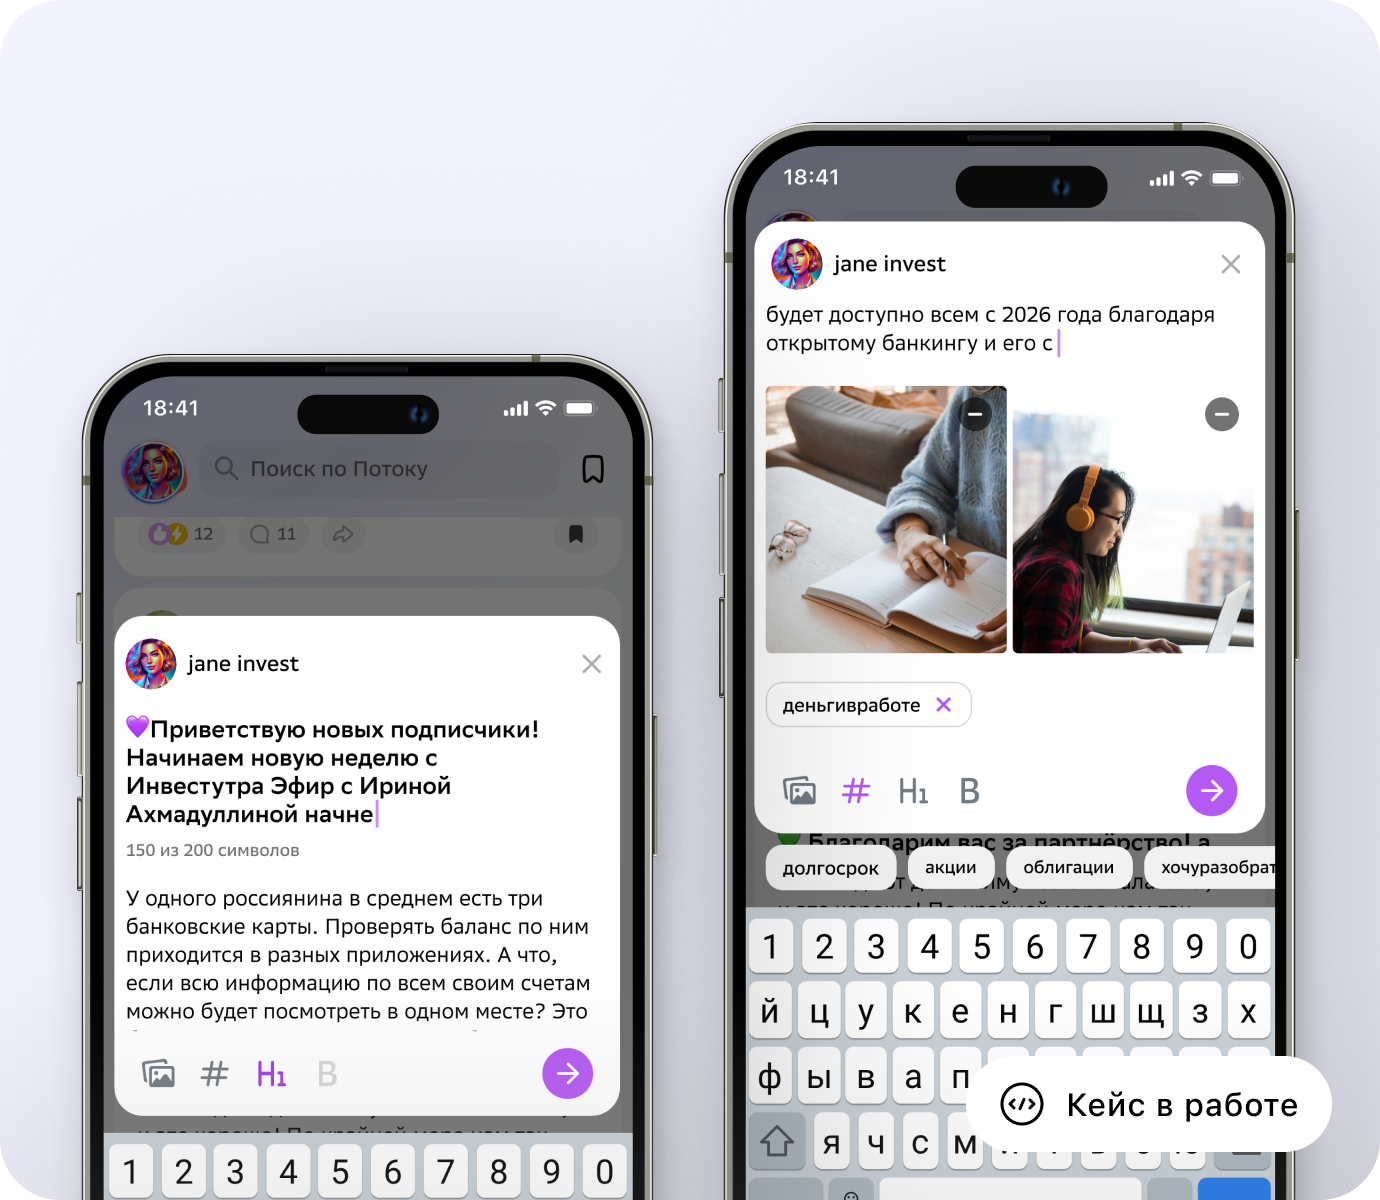
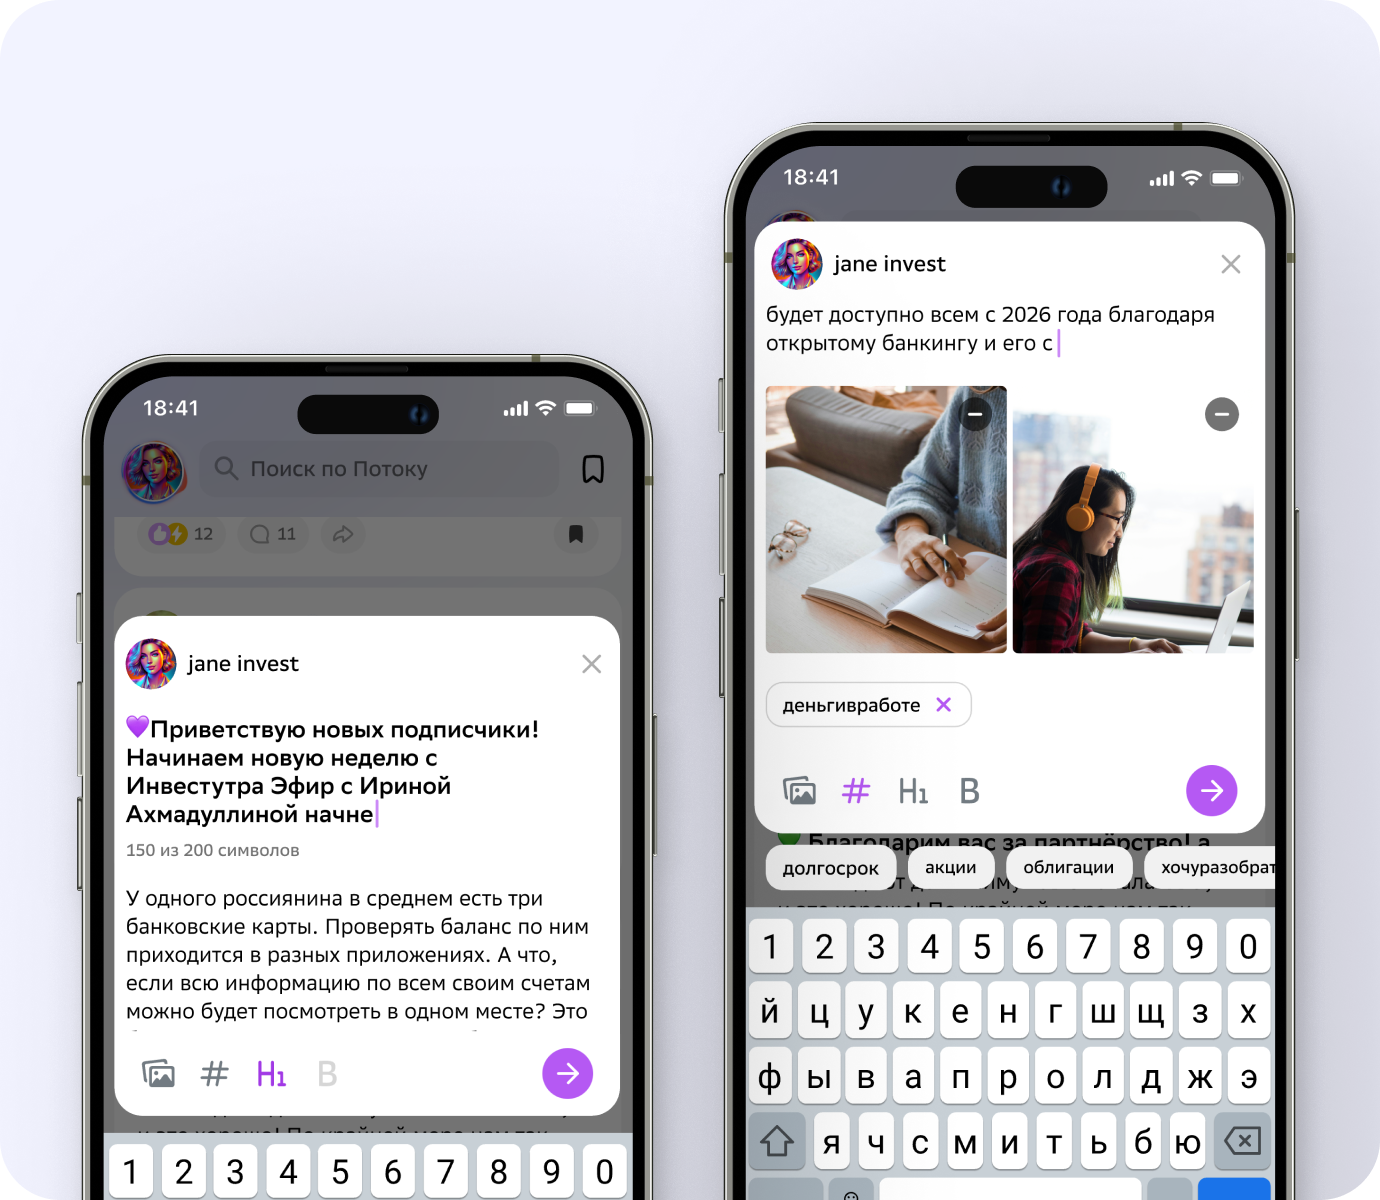
Added post editor case study

Changed region(s): [[0.6855, 0.8633, 0.9659, 0.9867]]

diff --git a/src/data/cases.ts b/src/data/cases.ts
@@ -53,11 +53,23 @@ export type CaseSection =
       title: string;
       leftCards: Array<{ title: string; text: string }>;
       image: string;
-      rightCards: Array<{ title: string; text: string }>;
+      rightCards: Array<{
+        title: string;
+        text: string;
+        highlightPrefix?: string;
+      }>;
     }
-  | {
+    | {
       type: "why";
       image: string;
+      title: string;
+      body: Array<{
+        segments: Array<{
+          text: string;
+          highlight?: boolean;
+        }>;
+        marginTop?: boolean;
+      }>;
     }
   | {
       type: "gallery";
@@ -224,6 +236,28 @@ export const cases: CaseStudy[] = [
       {
         type: "why",
         image: "/cases/sber-feed-why.png",
+        title: "Почему так?",
+        body: [
+          {
+            segments: [
+              {
+                text: "Я опиралась на паттерны поведения пользователей в соцсетях:",
+              },
+              {
+                text: " скроллинг → быстрый просмотр → вовлечение через взаимодействие",
+                highlight: true,
+              },
+            ],
+          },
+          {
+            marginTop: true,
+            segments: [
+              {
+                text: "Добавление социальных механик делает ленту живой и формирует привычку возвращаться в продукт.",
+              },
+            ],
+          },
+        ],
       },
 
       {
@@ -391,6 +425,35 @@ export const cases: CaseStudy[] = [
       {
         type: "why",
         image: "/cases/sber-post-entry-why.png",
+        title: "Почему так?",
+        body: [
+          {
+            segments: [
+              { text: "Я закладывала гипотезу, что:" },
+            ],
+          },
+          {
+            segments: [
+              { text: "персонализированные триггеры + простой вход" },
+            ],
+          },
+          {
+            segments: [{ text: "→ снижают барьер", highlight: true }],
+          },
+          {
+            segments: [
+              { text: "→ увеличивают количество постов", highlight: true },
+            ],
+          },
+          {
+            marginTop: true,
+            segments: [
+              {
+                text: "Создание контента — ключевая механика любой социальной платформы",
+              },
+            ],
+          },
+        ],
       },
 
       {
@@ -415,6 +478,197 @@ export const cases: CaseStudy[] = [
       {
         type: "gallery",
         images: ["/cases/sber-post-entry-end.png"],
+      },
+
+      {
+        type: "navigation",
+      },
+    ],
+  },
+
+  {
+    slug: "sber-post-editor",
+    title: "Редактор поста",
+    company: "Сбер Инвестиции",
+    tags: ["iOS", "Android", "B2C", "FinTech", "2025"],
+    heroImage: "/cases/sber-post-editor-hero.png",
+
+    sections: [
+      {
+        type: "results",
+        title: "Результаты",
+        items: [
+          {
+            label: "Новые фичи",
+            description: "обновлённый редактор постов (MVP)",
+          },
+          {
+            label: "Этап тестирования",
+            description: "запустили продукт на тестовый контур",
+          },
+          {
+            label: "UI-kit",
+            description: "наполнение DS новыми компонентами, иконками",
+          },
+        ],
+        image: "/cases/sber-post-editor-results.png",
+      },
+
+      {
+        type: "context",
+        title: "Контекст",
+        subtitle: [
+          { text: "Создание контента", highlight: true },
+          { text: " внутри инвестиционного приложения", highlight: false },
+        ],
+        image: "/cases/sber-post-editor-context.png",
+      },
+
+      {
+        type: "problem",
+        title: "Проблематика",
+        cards: [
+          {
+            title: "Для обычных пользователей",
+            text: "невозможность делиться своим опытом",
+          },
+          {
+            title: "Для эмитентов",
+            text: "доступ через админа",
+          },
+          {
+            title: "Для официальных каналов",
+            text: "обязательный заголовок, нет простого сценария создания постов",
+          },
+        ],
+        image: "/cases/sber-post-editor-problem.png",
+      },
+
+      {
+        type: "hypotheses",
+        title: "Гипотезы",
+        blocks: [
+          {
+            title: "Гипотезы",
+            scenarios: [
+              {
+                text: "Если добавить простой вход и персонализированные триггеры",
+                bullets: ["увеличится количество новых постов"],
+              },
+              {
+                text: "Если пользователи видят опытных инвесторов",
+                bullets: [
+                  "растёт доверие",
+                  "снижается страх к инвестированию",
+                ],
+              },
+            ],
+          },
+          {
+            title: "Метрики",
+            bullets: [
+              "Количество созданных постов",
+              "Conversion в создание поста",
+              "Частота публикаций",
+              "Доля активных авторов",
+              "Повторные инвестиции",
+              "Конверсия в покупку после взаимодействия с постом",
+            ],
+          },
+        ],
+      },
+
+      {
+        type: "gallery",
+        images: ["/cases/sber-post-editor-hypothesis.png"],
+      },
+
+      {
+        type: "solution",
+        title: "Решение",
+        leftCards: [
+          {
+            title: "Заголовок",
+            text: "Убрала обязательный заголовок и сделала опциональным",
+          },
+          {
+            title: "Контент",
+            text: "Добавила возможность: прикладывать изображения, использовать теги",
+          },
+        ],
+        image: "/cases/sber-post-editor-solution.png",
+        rightCards: [
+          {
+            title: "Состояния",
+            text: "Проработала состояния, ошибки, corner cases",
+          },
+          {
+            title: "Дизайн-система",
+            text: "Внедрила новые иконки и компоненты в дизайн-систему",
+          },
+          {
+            title: "Масштабирование",
+            text: "Заложила возможность масштабирования (видео и черновики)",
+            highlightPrefix: "Заложила возможность",
+          },
+        ],
+      },
+
+      {
+        type: "why",
+        image: "/cases/sber-post-editor-why.png",
+        title: "Почему так?",
+        body: [
+          {
+            segments: [
+              {
+                text: "Я опиралась на UX-паттерны социальных сетей: создание контента без усилий",
+              },
+            ],
+          },
+          {
+            segments: [
+              { text: "→ снижают барьер", highlight: true },
+            ],
+          },
+          {
+            segments: [
+              { text: "→ увеличивают количество постов", highlight: true },
+            ],
+          },
+          {
+            marginTop: true,
+            segments: [
+              {
+                text: "Снижение требований уменьшает когнитивную нагрузку и повышает вероятность публикации.",
+              },
+            ],
+          },
+        ],
+      },
+
+      {
+        type: "results",
+        title: "Результаты",
+        items: [
+          {
+            label: "Новые фичи",
+            description: "обновлённый редактор постов (MVP)",
+          },
+          {
+            label: "Этап тестирования",
+            description: "запустили продукт на тестовый контур",
+          },
+          {
+            label: "UI-kit",
+            description: "наполнение DS новыми компонентами, иконками",
+          },
+        ],
+      },
+
+      {
+        type: "gallery",
+        images: ["/cases/sber-post-editor-end.png"],
       },
 
       {

diff --git a/src/app/cases/[slug]/CaseClient.tsx b/src/app/cases/[slug]/CaseClient.tsx
@@ -535,6 +535,10 @@ function renderSection(section: CaseSection, slug: string) {
               const words = card.text.split(" ");
               const firstWord = words.shift();
               const rest = words.join(" ");
+              const highlight = card.highlightPrefix ?? firstWord;
+              const body = card.highlightPrefix
+                ? card.text.slice(card.highlightPrefix.length).trim()
+                : rest;
 
               return (
                 <div
@@ -551,8 +555,8 @@ function renderSection(section: CaseSection, slug: string) {
                       letterSpacing: "0.7px",
                     }}
                   >
-                    <span style={{ color: "#8948F9" }}>{firstWord}</span>{" "}
-                    {rest}
+                    <span style={{ color: "#8948F9" }}>{highlight}</span>{" "}
+                    {body}
                   </div>
 
                   <div className="self-end text-[18px] text-black/30 font-normal">
@@ -578,17 +582,14 @@ function renderSection(section: CaseSection, slug: string) {
   if (section.type === "why") {
     return (
       <section className="mt-[60px]">
-  
         <div className="grid grid-cols-1 lg:grid-cols-2 gap-[20px]">
-  
           <img
             src={section.image}
             className="w-full rounded-[30px]"
             alt="why"
           />
-  
-  <div className="flex flex-col pt-[80px] pr-[96px]">
-  
+
+          <div className="flex flex-col pt-[80px] pr-[96px]">
             <div
               style={{
                 fontFamily: "SF Pro Rounded, sans-serif",
@@ -599,33 +600,40 @@ function renderSection(section: CaseSection, slug: string) {
                 color: "#8948F9",
               }}
             >
-              Почему так?
+              {section.title}
             </div>
-  
+
             <div className="h-[12px]" />
-  
+
             <div
-  style={{
-    fontFamily: "SF Pro Rounded, sans-serif",
-    fontSize: "28px",
-    fontWeight: 600,
-    lineHeight: "36px",
-    letterSpacing: "0.7px",
-    color: "#000",
-  }}
->
-              Я опиралась на паттерны поведения пользователей в соцсетях:
-              <span style={{ color: "#8948F9" }}>
-                {" "}скроллинг → быстрый просмотр → вовлечение через взаимодействие
-              </span>
-              <br /><br />
-              Добавление социальных механик делает ленту живой и формирует привычку возвращаться в продукт.
+              style={{
+                fontFamily: "SF Pro Rounded, sans-serif",
+                fontSize: "28px",
+                fontWeight: 600,
+                lineHeight: "36px",
+                letterSpacing: "0.7px",
+              }}
+            >
+              {section.body.map((block, blockIndex) => (
+                <div
+                  key={blockIndex}
+                  className={block.marginTop ? "mt-[24px]" : undefined}
+                >
+                  {block.segments.map((segment, segmentIndex) => (
+                    <span
+                      key={segmentIndex}
+                      style={{
+                        color: segment.highlight ? "#8948F9" : "#000",
+                      }}
+                    >
+                      {segment.text}
+                    </span>
+                  ))}
+                </div>
+              ))}
             </div>
-  
           </div>
-  
         </div>
-  
       </section>
     );
   }
